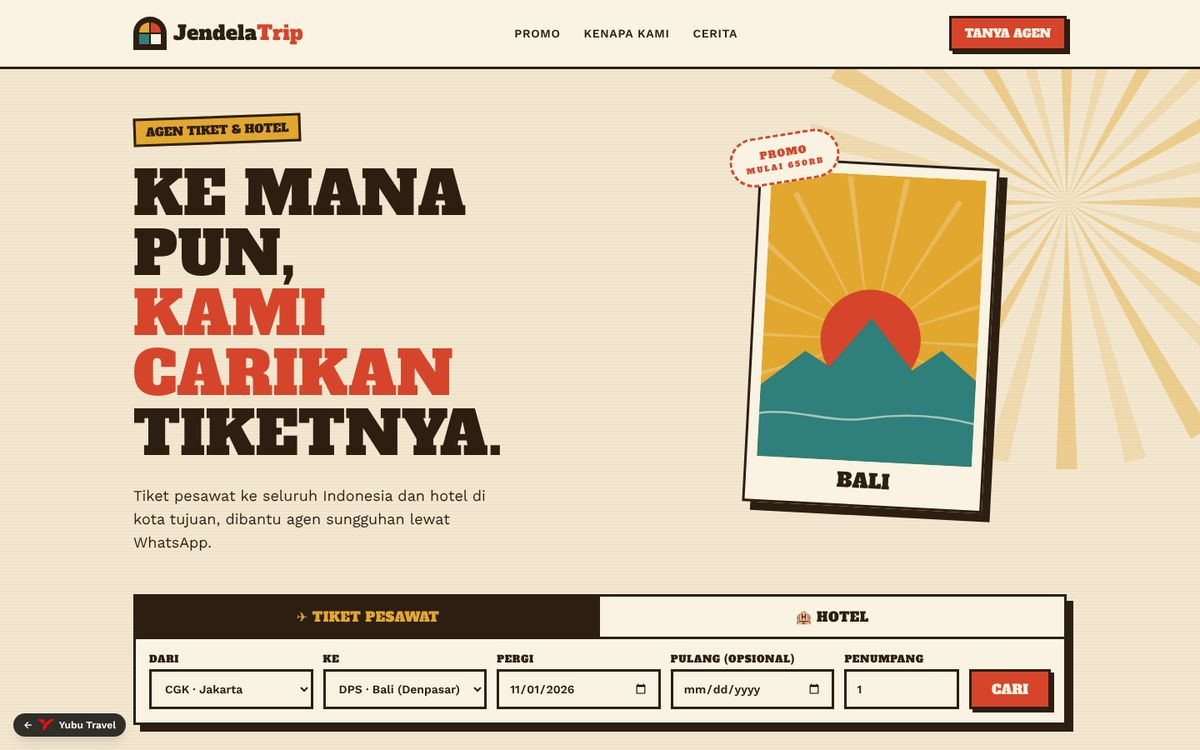
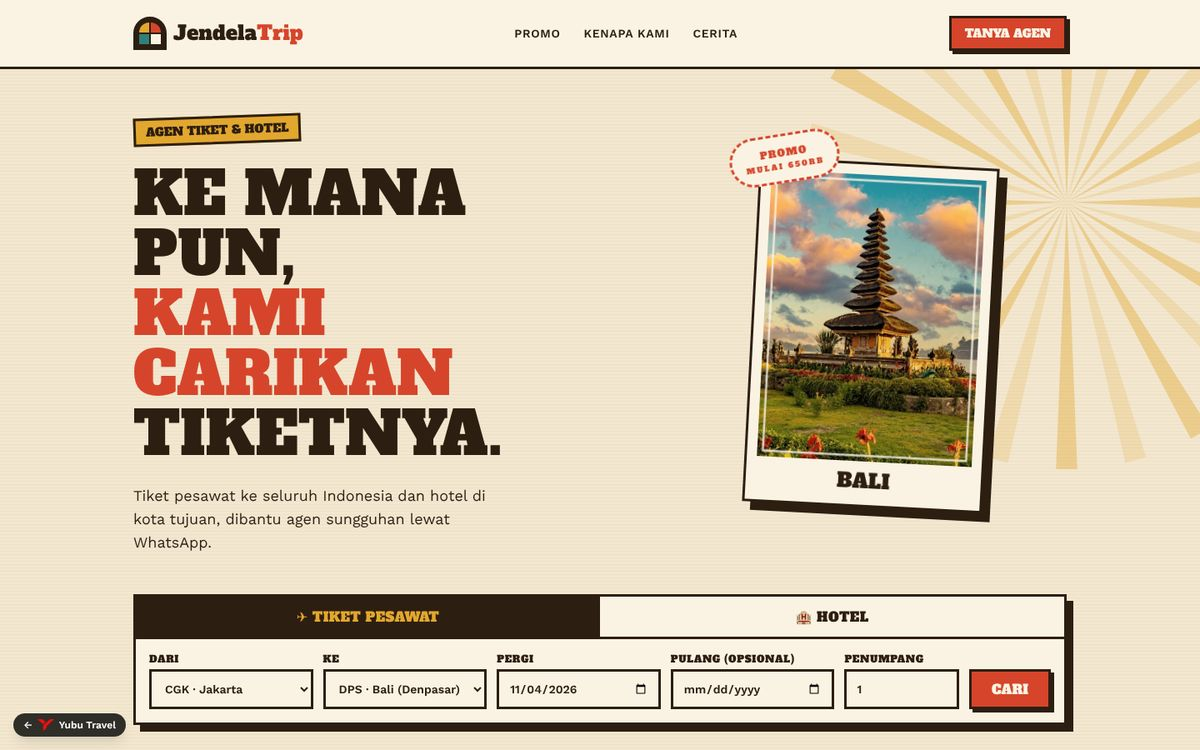
Pasang foto kota di poster promo Jendela Trip
Bali (Ulun Danu), Labuan Bajo (Padar), Yogyakarta (Tugu), Raja Ampat
(Piaynemo), dipotong 3:4 dengan sentuhan warna retro.

Claude-Session: https://claude.ai/code/session_01T9xYak59ohEDkUVoekzEJy

Changed region(s): [[0.6167, 0.2147, 0.8325, 0.644], [0.4625, 0.8893, 0.4933, 0.92]]

diff --git a/src/app/jendela-trip/data.ts b/src/app/jendela-trip/data.ts
@@ -35,10 +35,10 @@ export const HOTEL_CLASSES = [
 export type Poster = { id: string; city: string; tagline: string; price: number; from: string; to: string; bg: string; sun: string; land: string; image: string | null };
 
 export const POSTERS: Poster[] = [
-  { id: "bali", city: "Bali", tagline: "Pulau Dewata", price: 650000, from: "CGK", to: "DPS", bg: "#e2a72e", sun: "#d6452b", land: "#2f7f7a", image: null },
-  { id: "bajo", city: "Labuan Bajo", tagline: "Negeri Komodo", price: 1150000, from: "CGK", to: "LBJ", bg: "#2f7f7a", sun: "#e2a72e", land: "#2d1e12", image: null },
-  { id: "jogja", city: "Yogyakarta", tagline: "Kota Budaya", price: 650000, from: "CGK", to: "YIA", bg: "#d6452b", sun: "#f3e7cf", land: "#2d1e12", image: null },
-  { id: "rajaampat", city: "Raja Ampat", tagline: "Surga Timur", price: 1900000, from: "CGK", to: "SOQ", bg: "#2d1e12", sun: "#e2a72e", land: "#2f7f7a", image: null },
+  { id: "bali", city: "Bali", tagline: "Pulau Dewata", price: 650000, from: "CGK", to: "DPS", bg: "#e2a72e", sun: "#d6452b", land: "#2f7f7a", image: "/jendela/bali.jpg" },
+  { id: "bajo", city: "Labuan Bajo", tagline: "Negeri Komodo", price: 1150000, from: "CGK", to: "LBJ", bg: "#2f7f7a", sun: "#e2a72e", land: "#2d1e12", image: "/jendela/bajo.jpg" },
+  { id: "jogja", city: "Yogyakarta", tagline: "Kota Budaya", price: 650000, from: "CGK", to: "YIA", bg: "#d6452b", sun: "#f3e7cf", land: "#2d1e12", image: "/jendela/jogja.jpg" },
+  { id: "rajaampat", city: "Raja Ampat", tagline: "Surga Timur", price: 1900000, from: "CGK", to: "SOQ", bg: "#2d1e12", sun: "#e2a72e", land: "#2f7f7a", image: "/jendela/rajaampat.jpg" },
 ];
 
 export const PERKS = [
